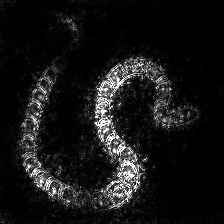
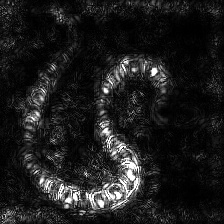
main file

diff --git a/src/misc_functions.py b/src/misc_functions.py
@@ -39,12 +39,12 @@ def save_gradient_images(gradient, file_name):
         gradient (np arr): Numpy array of the gradient with shape (3, 224, 224)
         file_name (str): File name to be exported
     """
-    if not os.path.exists('../results'):
-        os.makedirs('../results')
+    if not os.path.exists('results'):
+        os.makedirs('results')
     gradient = gradient - gradient.min()
     gradient /= gradient.max()
     gradient = np.uint8(gradient * 255).transpose(1, 2, 0)
-    path_to_file = os.path.join('../results', file_name + '.jpg')
+    path_to_file = os.path.join('results', file_name + '.jpg')
     # Convert RBG to GBR
     gradient = gradient[..., ::-1]
     cv2.imwrite(path_to_file, gradient)
@@ -59,20 +59,20 @@ def save_class_activation_on_image(org_img, activation_map, file_name):
         activation_map (numpy arr): activation map (grayscale) 0-255
         file_name (str): File name of the exported image
     """
-    if not os.path.exists('../results'):
-        os.makedirs('../results')
+    if not os.path.exists('results'):
+        os.makedirs('results')
     # Grayscale activation map
-    path_to_file = os.path.join('../results', file_name+'_Cam_Grayscale.jpg')
+    path_to_file = os.path.join('results', file_name+'_Cam_Grayscale.jpg')
     cv2.imwrite(path_to_file, activation_map)
     # Heatmap of activation map
     activation_heatmap = cv2.applyColorMap(activation_map, cv2.COLORMAP_HSV)
-    path_to_file = os.path.join('../results', file_name+'_Cam_Heatmap.jpg')
+    path_to_file = os.path.join('results', file_name+'_Cam_Heatmap.jpg')
     cv2.imwrite(path_to_file, activation_heatmap)
     # Heatmap on picture
     org_img = cv2.resize(org_img, (224, 224))
     img_with_heatmap = np.float32(activation_heatmap) + np.float32(org_img)
     img_with_heatmap = img_with_heatmap / np.max(img_with_heatmap)
-    path_to_file = os.path.join('../results', file_name+'_Cam_On_Image.jpg')
+    path_to_file = os.path.join('results', file_name+'_Cam_On_Image.jpg')
     cv2.imwrite(path_to_file, np.uint8(255 * img_with_heatmap))
 
 
@@ -164,9 +164,9 @@ def get_params(example_index):
         pretrained_model(Pytorch model): Model to use for the operations
     """
     # Pick one of the examples
-    example_list = [['../input_images/snake.jpg', 56],
-                    ['../input_images/cat_dog.png', 243],
-                    ['../input_images/spider.png', 72]]
+    example_list = [['input_images/snake.jpg', 56],
+                    ['input_images/cat_dog.png', 243],
+                    ['input_images/spider.png', 72]]
     selected_example = example_index
     img_path = example_list[selected_example][0]
     target_class = example_list[selected_example][1]

diff --git a/src/cnn_layer_visualization.py b/src/cnn_layer_visualization.py
@@ -11,7 +11,7 @@ import torch
 from torch.optim import SGD
 from torchvision import models
 
-from misc_functions import preprocess_image, recreate_image
+from src.misc_functions import preprocess_image, recreate_image
 
 
 class CNNLayerVisualization():
@@ -28,8 +28,8 @@ class CNNLayerVisualization():
         # Generate a random image
         self.created_image = np.uint8(np.random.uniform(150, 180, (224, 224, 3)))
         # Create the folder to export images if not exists
-        if not os.path.exists('../generated'):
-            os.makedirs('../generated')
+        if not os.path.exists('generated'):
+            os.makedirs('generated')
 
     def hook_layer(self):
         def hook_function(module, grad_in, grad_out):
@@ -72,7 +72,7 @@ class CNNLayerVisualization():
             self.created_image = recreate_image(self.processed_image)
             # Save image
             if i % 5 == 0:
-                cv2.imwrite('../generated/layer_vis_l' + str(self.selected_layer) +
+                cv2.imwrite('generated/layer_vis_l' + str(self.selected_layer) +
                             '_f' + str(self.selected_filter) + '_iter'+str(i)+'.jpg',
                             self.created_image)
 
@@ -111,7 +111,7 @@ class CNNLayerVisualization():
             self.created_image = recreate_image(self.processed_image)
             # Save image
             if i % 5 == 0:
-                cv2.imwrite('../generated/layer_vis_l' + str(self.selected_layer) +
+                cv2.imwrite('generated/layer_vis_l' + str(self.selected_layer) +
                             '_f' + str(self.selected_filter) + '_iter'+str(i)+'.jpg',
                             self.created_image)
 

diff --git a/src/guided_gradcam.py b/src/guided_gradcam.py
@@ -5,11 +5,11 @@ Created on Thu Oct 23 11:27:15 2017
 """
 import numpy as np
 
-from misc_functions import (get_params,
+from src.misc_functions import (get_params,
                             convert_to_grayscale,
                             save_gradient_images)
-from gradcam import GradCam
-from guided_backprop import GuidedBackprop
+from src.gradcam import GradCam
+from src.guided_backprop import GuidedBackprop
 
 
 def guided_grad_cam(grad_cam_mask, guided_backprop_mask):
@@ -25,14 +25,14 @@ def guided_grad_cam(grad_cam_mask, guided_backprop_mask):
     return cam_gb
 
 
-if __name__ == '__main__':
+def run():
     # Get params
     target_example = 0  # Snake
     (original_image, prep_img, target_class, file_name_to_export, pretrained_model) =\
         get_params(target_example)
 
     # Grad cam
-    gcv2 = GradCam(pretrained_model, target_layer=35)
+    gcv2 = GradCam(pretrained_model, target_layer=10)
     # Generate cam mask
     cam = gcv2.generate_cam(prep_img, target_class)
     print('Grad cam completed')

diff --git a/src/guided_backprop.py b/src/guided_backprop.py
@@ -6,7 +6,7 @@ Created on Thu Oct 26 11:23:47 2017
 import torch
 from torch.nn import ReLU
 
-from misc_functions import (get_params,
+from src.misc_functions import (get_params,
                             convert_to_grayscale,
                             save_gradient_images,
                             get_positive_negative_saliency)

diff --git a/src/vanilla_backprop.py b/src/vanilla_backprop.py
@@ -5,7 +5,7 @@ Created on Thu Oct 26 11:19:58 2017
 """
 import torch
 
-from misc_functions import get_params, convert_to_grayscale, save_gradient_images
+from src.misc_functions import get_params, convert_to_grayscale, save_gradient_images
 
 
 class VanillaBackprop():

diff --git a/src/generate_class_specific_samples.py b/src/generate_class_specific_samples.py
@@ -10,7 +10,7 @@ import numpy as np
 from torch.optim import SGD
 from torchvision import models
 
-from misc_functions import preprocess_image, recreate_image
+from src.misc_functions import preprocess_image, recreate_image
 
 
 class ClassSpecificImageGeneration():

diff --git a/src/inverted_representation.py b/src/inverted_representation.py
@@ -8,7 +8,7 @@ import torch
 from torch.autograd import Variable
 from torch.optim import SGD
 
-from misc_functions import get_params, recreate_image
+from src.misc_functions import get_params, recreate_image
 
 
 class InvertedRepresentation():

diff --git a/src/deep_dream.py b/src/deep_dream.py
@@ -10,7 +10,7 @@ import torch
 from torch.optim import SGD
 from torchvision import models
 
-from misc_functions import preprocess_image, recreate_image
+from src.misc_functions import preprocess_image, recreate_image
 
 
 class DeepDream():

diff --git a/src/gradcam.py b/src/gradcam.py
@@ -7,7 +7,7 @@ import cv2
 import numpy as np
 import torch
 
-from misc_functions import get_params, save_class_activation_on_image
+from src.misc_functions import get_params, save_class_activation_on_image
 
 
 class CamExtractor():

diff --git a/main.py b/main.py
@@ -1,0 +1,3 @@
+import src.guided_gradcam as guided_gradcam
+
+guided_gradcam.run()
